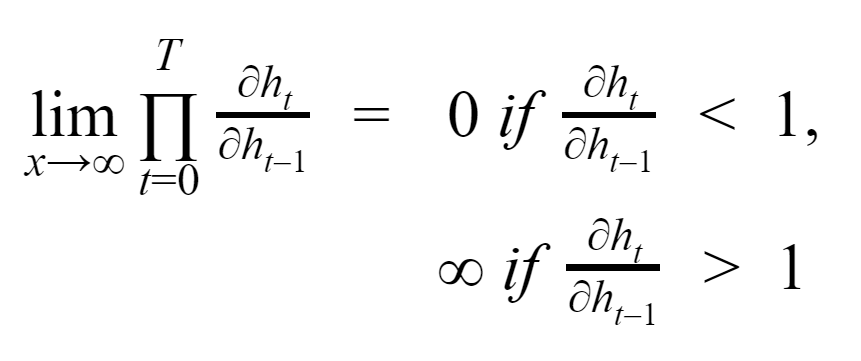
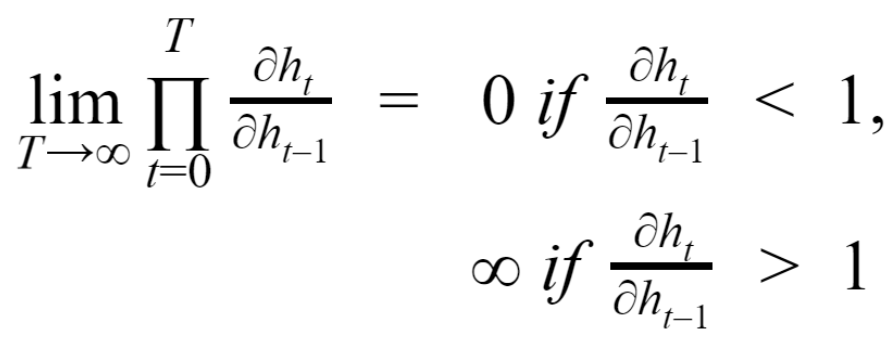
Replaced image and updated README

diff --git a/README.md b/README.md
@@ -3,13 +3,13 @@
 This project, hosted by [Kaggle](https://www.kaggle.com/c/fake-news) involved building a model to classify sections of text into reliable or unreliable news. I chose to build an LSTM (Long Short-Term Memory) Neural Network to perform the classifications due to its ability to process sequential data while preserving the time aspect. The predictions calculated on the testing data produced an accuracy value of 95.8%.
 
 ## Advantages of an LSTM Neural Network
-The LSTM was chosen because it uses the RNN (Recurrent Neural Network) architecture while circumventing the issue of a vanishing or exploding gradient. RNNs do an excellent job at analyzing information in a way that preserves the temporal aspect of the data. However, with long sequences of data, the gradient can quickly approach zero or infinity. To better explain this phenomenon, the following image has been referenced from [Wikipedia](https://en.wikipedia.org/wiki/Recurrent_neural_network). In this image, $X$ is the input sequence, $h$ is the hidden layer of the RNN, and $o$ is the output of feeding $X$ through the model. Specifically for this problem, $X$ is a batch of padded, embedded inputs representing the news article whose truth should be predicted. Since the Model utilizes the temporal meaning behind the text, the output from each timestep (starting with $t_0$) is fed into the proceeding timestep to form chronological "layers". The significance of this is that each of the model's weights also dependent on the preceding weight in the RNN, which makes the gradient multiplicative. Thus:
+The LSTM was chosen because it uses the RNN (Recurrent Neural Network) architecture while circumventing the issue of a vanishing or exploding gradient. RNNs do an excellent job at analyzing information in a way that preserves the temporal aspect of the data. However, with long sequences of data, the gradient can quickly approach zero or infinity. To better explain this phenomenon, the following image has been referenced from [Wikipedia](https://en.wikipedia.org/wiki/Recurrent_neural_network). In this image, X is the input sequence, h is the hidden layer of the RNN, and o is the output of feeding X through the model. Specifically for this problem, X is a batch of padded, embedded inputs representing the news article whose truth should be predicted. Since the Model utilizes the temporal meaning behind the text, the output from each timestep (starting with t<sub>0</sub>) is fed into the proceeding timestep to form chronological "layers". The significance of this is that each of the model's weights also dependent on the preceding weight in the RNN, which makes the gradient multiplicative. Thus:
 
-<center>
-
-<img src="https://github.com/awalber/fake-news-detector/tree/main/imgs/eq_1.png">
-
-<img src="https://github.com/awalber/fake-news-detector/tree/main/imgs/Recurrent_neural_network_unfold.png">
-</center>
+<p align="center">
+    <img src="/imgs/eq_1.png" | width=300>
+<\p>
+<p align="center">
+    <img src="/imgs/Recurrent_neural_network_unfold.png" | width=650>
+<\p>
 
 The LSTM retains the RNN architecture while mitigating the multiplicative gradient by utilizing "forget gates", which regulates the amount of information passed forward through the model. The short-term memory aspect of the model supports the generation of speech/text because usually the meaning of the word or sentence is directly influenced by other words or sentences in its vicinity. Strictly speaking, the first word in an article most likely has minimal influence on the actual meaning of the article five hundred words deep.
